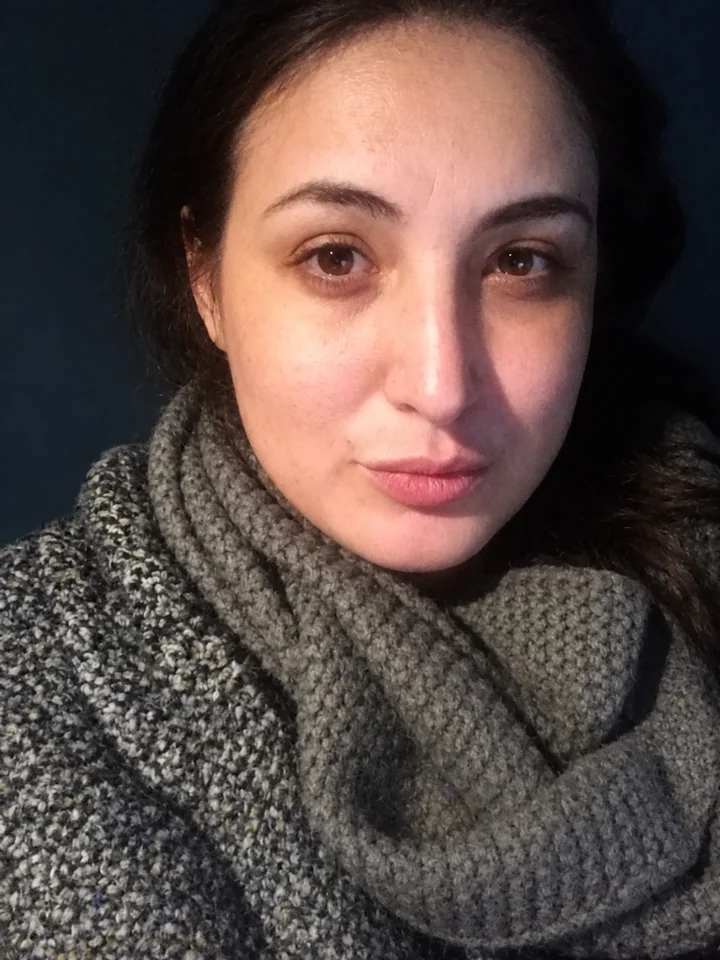
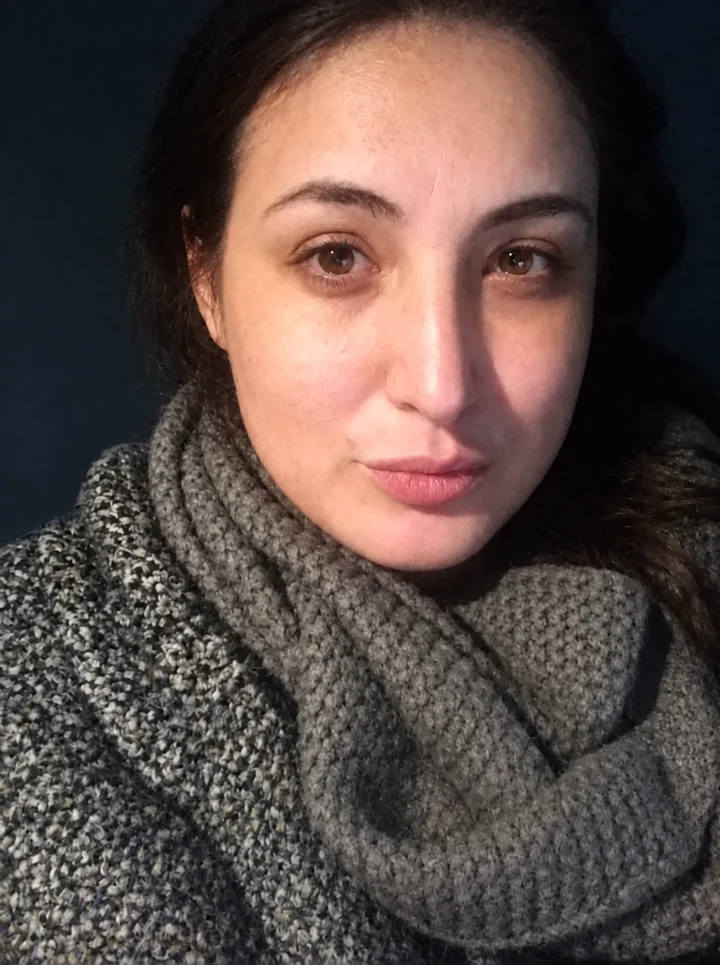
Swap About page portrait for updated version of the photo
Claude-Session: https://claude.ai/code/session_01BFRTtEC83SfTFGtsVJkMxz

diff --git a/pages/about.php b/pages/about.php
@@ -324,7 +324,7 @@
 
   <section class="ab-hero">
     <div class="ab-hero-content">
-      <img class="ab-portrait" src="/img/oa-allen-portrait.webp" alt="Carrie Bailey Allen" width="720" height="960">
+      <img class="ab-portrait" src="/img/oa-allen-portrait.webp" alt="Carrie Bailey Allen" width="720" height="965">
       <p class="ab-kicker">Peevish Penman &middot; About</p>
       <h1>About OA Allen</h1>
       <p class="ab-tagline">Carrie Bailey Allen writes speculative fiction under the name OA Allen.</p>
